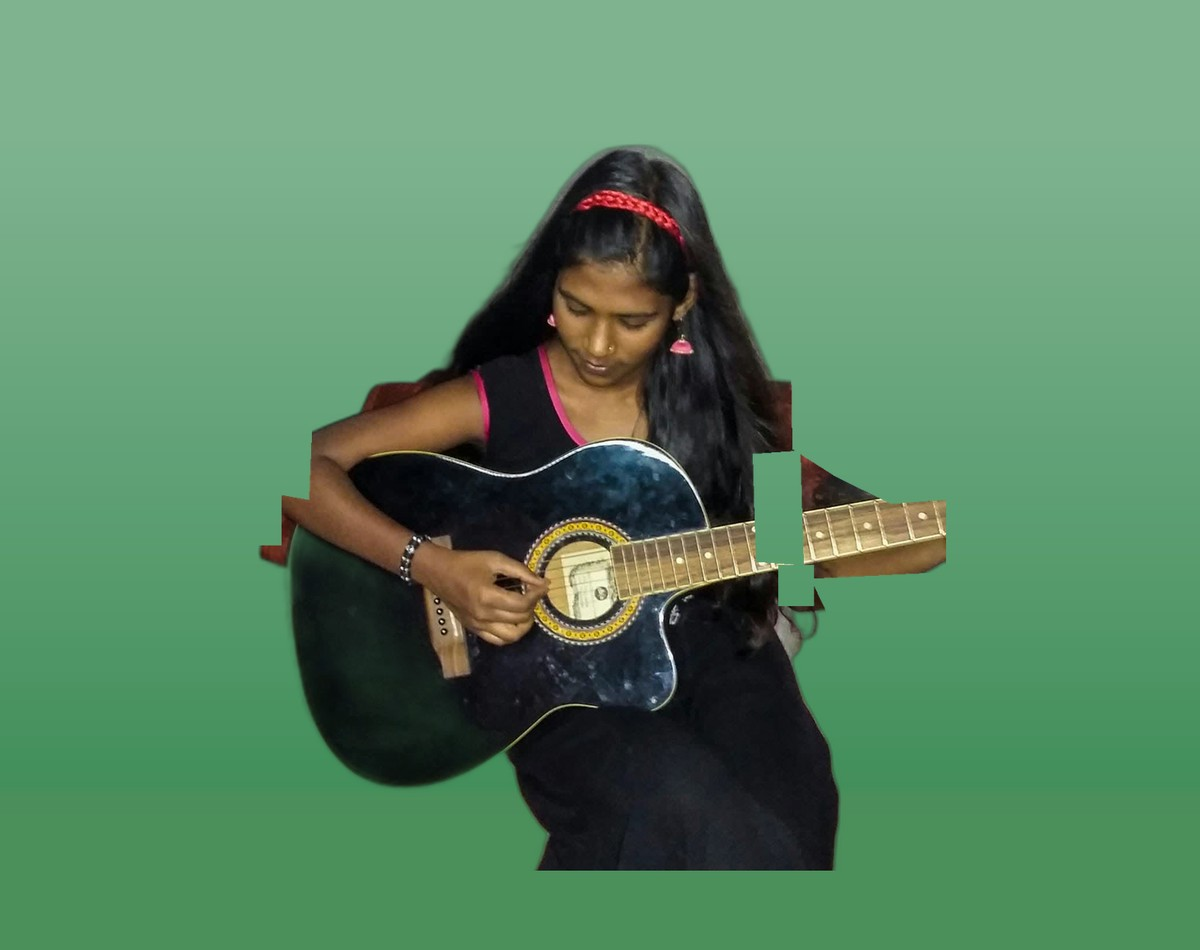
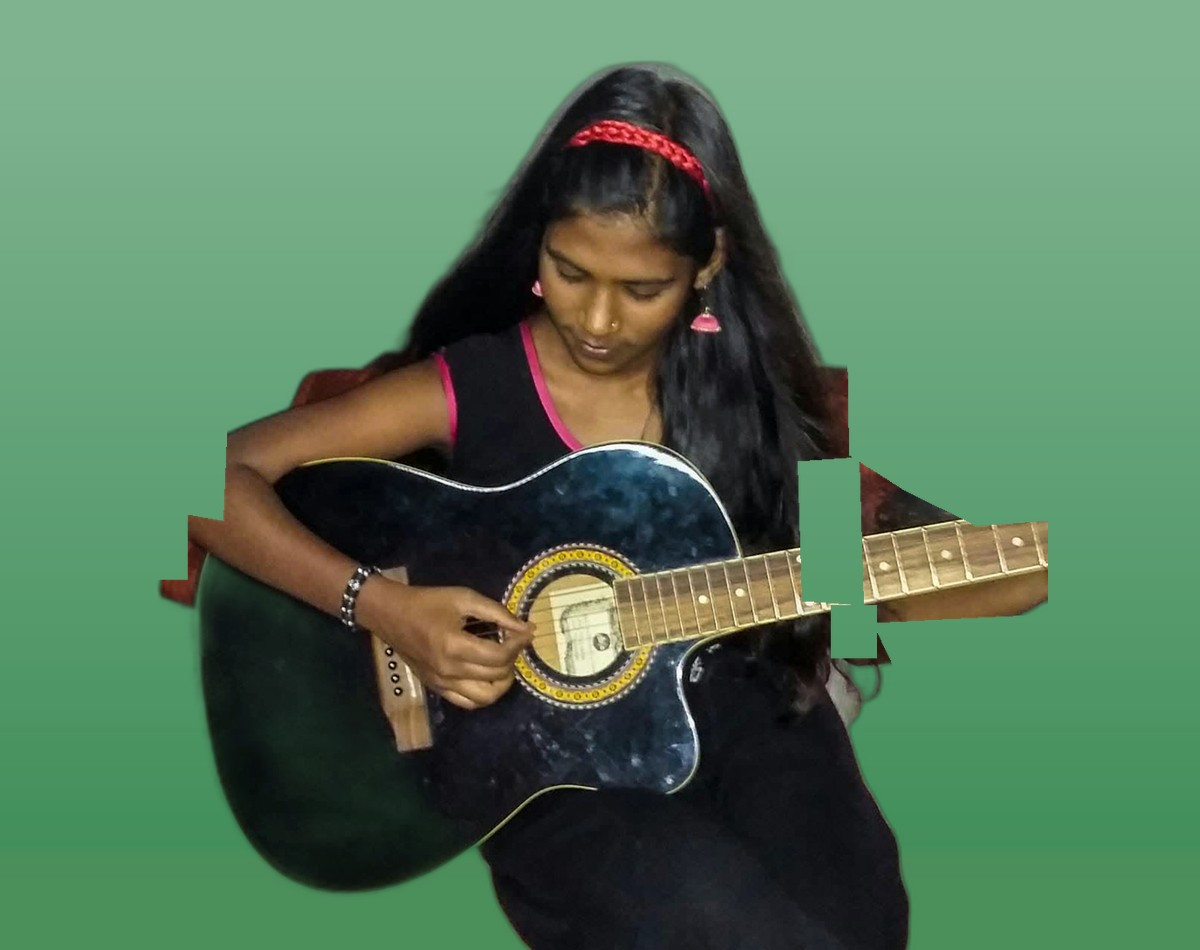
**Homepage torso zoom + full Our Work restructure — complete** - The new scholar set on the homepage is now zoomed to torso level like the other sets — bigger subjects, tighter crop, same coloured chevron panels, guitar and graduation certificate still fully in frame. - Our Work is reordered and ren
Emergent-Commit-Key: 017fbe71f9b0d49b76314eb5b89e1252a4862a0d8cf172c01eab7f174f947a69

Changed region(s): [[0.1233, 0.0611, 0.8942, 1.0]]

diff --git a/frontend/src/pages/Program.jsx b/frontend/src/pages/Program.jsx
@@ -4,21 +4,6 @@ import { ArrowUpRight, Facebook } from "lucide-react";
 import { Reveal } from "@/components/Reveal";
 import AlbumButtons from "@/components/AlbumButtons";
 
-const IMG = {
-  tuition: "https://images.unsplash.com/photo-1623303366639-0e330d7c3d9f?crop=entropy&cs=srgb&fm=jpg&ixid=M3w4NjAzMjd8MHwxfHNlYXJjaHw0fHxJbmRpYW4lMjBjaGlsZHJlbiUyMGVkdWNhdGlvbiUyMGNsYXNzcm9vbSUyMHN0dWR5JTIwc3BvcnRzJTIwZmllbGR0cmlwfGVufDB8fHx8MTc5MTMwOTc1OXww&ixlib=rb-4.1.0&q=85",
-  arts: "https://images.unsplash.com/photo-1592060036126-1b6d5139dea4?crop=entropy&cs=srgb&fm=jpg&ixid=M3w4NTYxODd8MHwxfHNlYXJjaHwyfHxpbmRpYW4lMjBjaGlsZHJlbiUyMGFydCUyMGNsYXNzfGVufDB8fHx8MTc5MTMxMDMyNHww&ixlib=rb-4.1.0&q=85",
-  sports: "https://images.unsplash.com/photo-1569173675610-42c361a86e37?crop=entropy&cs=srgb&fm=jpg&ixid=M3w4NjAzMjd8MHwxfHNlYXJjaHwzfHxJbmRpYW4lMjBjaGlsZHJlbiUyMGVkdWNhdGlvbiUyMGNsYXNzcm9vbSUyMHN0dWR5JTIwc3BvcnRzJTIwZmllbGR0cmlwfGVufDB8fHx8MTc5MTMwOTc1OXww&ixlib=rb-4.1.0&q=85",
-  fieldtrip: "https://images.unsplash.com/photo-1524069290683-0457abfe42c3?crop=entropy&cs=srgb&fm=jpg&ixid=M3w4NjAzMjd8MHwxfHNlYXJjaHwxfHxJbmRpYW4lMjBjaGlsZHJlbiUyMGVkdWNhdGlvbiUyMGNsYXNzcm9vbSUyMHN0dWR5JTIwc3BvcnRzJTIwZmllbGR0cmlwfGVufDB8fHx8MTc5MTMwOTc1OXww&ixlib=rb-4.1.0&q=85",
-  healthFamily: "https://images.unsplash.com/photo-1680778467822-6097c2bd8232?crop=entropy&cs=srgb&fm=jpg&ixid=M3w3NTY2OTF8MHwxfHNlYXJjaHwyfHxJbmRpYW4lMjBjb21tdW5pdHklMjBoZWFsdGglMjBjaGVja3VwJTIwd29ya3Nob3AlMjBkaXN0cmlidXRpb24lMjBzdXBwbGllc3xlbnwwfHx8fDE3OTEzMDk3NTl8MA&ixlib=rb-4.1.0&q=85",
-  healthCheckup: "https://images.unsplash.com/photo-1680759291617-2923935d803a?crop=entropy&cs=srgb&fm=jpg&ixid=M3w3NTY2OTF8MHwxfHNlYXJjaHw0fHxJbmRpYW4lMjBjb21tdW5pdHklMjBoZWFsdGglMjBjaGVja3VwJTIwd29ya3Nob3AlMjBkaXN0cmlidXRpb24lMjBzdXBwbGllc3xlbnwwfHx8fDE3OTEzMDk3NTl8MA&ixlib=rb-4.1.0&q=85",
-  healthHygiene: "https://images.unsplash.com/photo-1572847748080-bac263fae977?crop=entropy&cs=srgb&fm=jpg&ixid=M3w3NTY2NzB8MHwxfHNlYXJjaHw0fHxJbmRpYW4lMjBzY2hvb2wlMjBjaGlsZHJlbiUyMGxlYXJuaW5nJTIwY2xhc3Nyb29tJTIwbm90ZWJvb2t8ZW58MHx8fHwxNzg4OTM1NzIzfDA&ixlib=rb-4.1.0&q=85",
-  healthWorkshop: "https://images.unsplash.com/photo-1719159381916-062fa9f435a6?crop=entropy&cs=srgb&fm=jpg&q=85",
-  careerCv: "https://images.unsplash.com/photo-1686771416317-b964cc4e0002?crop=entropy&cs=srgb&fm=jpg&ixid=M3w4NjA3NzF8MHwxfHNlYXJjaHwzfHxJbmRpYW4lMjB5b3VuZyUyMHByb2Zlc3Npb25hbCUyMG9mZmljZSUyMGRlc2slMjBjYXJlZXIlMjB3b3Jrc2hvcCUyMGludGVydmlld3xlbnwwfHx8fDE3OTEzMDk3NTl8MA&ixlib=rb-4.1.0&q=85",
-  careerInternship: "https://images.unsplash.com/photo-1573497620053-ea5300f94f21?crop=entropy&cs=srgb&fm=jpg&ixid=M3w4NjA3NzF8MHwxfHNlYXJjaHxfHxJbmRpYW4lMjB5b3VuZyUyMHByb2Zlc3Npb25hbCUyMG9mZmljZSUyMGRlc2slMjBjYXJlZXIlMjB3b3Jrc2hvcCUyMGludGVydmlld3xlbnwwfHx8fDE3OTEzMDk3NTl8MA&ixlib=rb-4.1.0&q=85",
-  careerWorkshop: "https://images.unsplash.com/photo-1775113586139-b583cc93517f?crop=entropy&cs=srgb&fm=jpg&q=85",
-  parentsWorkshop: "https://images.unsplash.com/photo-1680759291088-d3e935226178?crop=entropy&cs=srgb&fm=jpg&q=85",
-};
-
 const PILLARS = [
   {
     id: "education",
@@ -36,14 +21,10 @@ const PILLARS = [
         ],
       },
       {
-        title: "QUALITY SCHOOLS",
-        text: "Fully sponsored enrollment in private English-medium schools these families could never access, with logistics managed so nothing gets in the way.",
-        img: "/assets/edu-2.jpg",
-        alt: "AimGame scholars in their school uniforms with the RC team",
-        albums: [
-          { label: "KOLKATA", url: "https://www.facebook.com/media/set/?set=a.2511811812163179&type=3" },
-          { label: "PUNE", url: "https://www.facebook.com/media/set/?set=a.1468170039860700&type=3" },
-        ],
+        title: "MILESTONES",
+        text: "Five milestones mark every scholar's journey, from Bronze to Diamond. See each achievement celebrated, step by step.",
+        img: "/assets/work-milestones.jpg",
+        alt: "A graduation milestone celebration poster for an AimGame scholar",
       },
       {
         title: "TUITIONS",
@@ -64,7 +45,7 @@ const PILLARS = [
         ],
       },
       {
-        title: "PHYSICAL EDUCATION",
+        title: "FITNESS & SPORTS",
         text: "Sports and fitness that build healthy bodies and teamwork.",
         img: "/assets/edu-5.jpg",
         alt: "A yoga and fitness session with scholars at a community center",
@@ -89,8 +70,8 @@ const PILLARS = [
   },
   {
     id: "healthcare",
-    index: "02",
-    title: "Healthcare",
+    index: "03",
+    title: "Health & Wellness",
     intro: "A child can't stay in school if their family can't stay healthy.",
     blocks: [
       {
@@ -129,7 +110,7 @@ const PILLARS = [
   },
   {
     id: "employment",
-    index: "03",
+    index: "05",
     title: "Employment",
     intro: "The finish line isn't graduation. It's the first day on the job.",
     blocks: [
@@ -170,10 +151,10 @@ const PILLARS = [
 
 const NAV_ITEMS = [
   { id: "education", label: "EDUCATION" },
-  { id: "healthcare", label: "HEALTHCARE" },
-  { id: "employment", label: "EMPLOYMENT" },
   { id: "schools", label: "SCHOOLS & COLLEGES" },
-  { id: "parents", label: "PARENTS AS PARTNERS" },
+  { id: "healthcare", label: "HEALTH & WELLNESS" },
+  { id: "parents", label: "PARENT PARTNERSHIP" },
+  { id: "employment", label: "EMPLOYMENT" },
 ];
 
 const PillarNav = ({ active, progress, onJump }) => (
@@ -307,6 +288,29 @@ const PARTNER_LOGOS = [
   { src: "/assets/partner-logo-6.png", name: "I.P. Memorial School, Liluah Howrah" },
 ];
 
+const SCHOOLS_BLOCKS = [
+  {
+    title: "QUALITY SCHOOLS",
+    text: "Fully sponsored enrollment in private English-medium schools these families could never access, with logistics managed so nothing gets in the way.",
+    img: "/assets/edu-2.jpg",
+    alt: "AimGame scholars in their school uniforms with the RC team",
+    albums: [
+      { label: "KOLKATA", url: "https://www.facebook.com/media/set/?set=a.2511811812163179&type=3" },
+      { label: "PUNE", url: "https://www.facebook.com/media/set/?set=a.1468170039860700&type=3" },
+    ],
+  },
+  {
+    title: "COLLEGES & UNIVERSITIES",
+    text: "Fully sponsored admission to accredited colleges and universities across India, in courses that fit each scholar's strengths, with fees and logistics managed so nothing gets in the way.",
+    img: "/assets/work-colleges.jpg",
+    alt: "AimGame scholars and team at the Symbiosis Institute of Management Studies campus",
+    albums: [
+      { label: "KOLKATA", url: "https://www.facebook.com/media/set/?set=a.2511811812163179&type=3" },
+      { label: "PUNE", url: "https://www.facebook.com/media/set/?set=a.2511811812163179&type=3" },
+    ],
+  },
+];
+
 const SchoolsPillar = () => (
   <section
     id="schools"
@@ -316,9 +320,9 @@ const SchoolsPillar = () => (
     <div className="max-w-7xl mx-auto px-4 sm:px-8 lg:px-16">
       <Reveal>
         <div className="flex items-baseline gap-4">
-          <span className="font-mono text-sm font-bold text-flame">04</span>
+          <span className="font-mono text-sm font-bold text-flame">02</span>
           <h2 className="font-display font-extrabold tracking-tight text-3xl sm:text-4xl lg:text-5xl text-leaf uppercase">
-            Schools and Colleges
+            Schools &amp; Colleges
           </h2>
         </div>
       </Reveal>
@@ -329,6 +333,52 @@ const SchoolsPillar = () => (
           students' backgrounds and challenges. Together, year after year, we help every scholar succeed.
         </p>
       </Reveal>
+
+      <div className="mt-10 grid sm:grid-cols-2 gap-6">
+        {SCHOOLS_BLOCKS.map((b, i) => (
+          <Reveal key={b.title} delay={0.04 + i * 0.05} className="h-full">
+            <article
+              data-testid={`pillar-card-schools-${i}`}
+              className="group h-full rounded-3xl bg-white border border-ink/10 overflow-hidden transition-all duration-500 hover:-translate-y-1 hover:shadow-[0_30px_60px_-30px_rgba(15,23,42,0.3)] flex flex-col"
+            >
+              <div className="aspect-[4/3] overflow-hidden shrink-0">
+                <img
+                  src={b.img}
+                  alt={b.alt}
+                  loading="lazy"
+                  className="h-full w-full object-cover transition-transform duration-700 group-hover:scale-[1.04]"
+                />
+              </div>
+              <div className="p-6 flex flex-col flex-1">
+                <h3 className="font-display font-extrabold tracking-tight text-lg">{b.title}</h3>
+                <p className="mt-2 text-sm text-ink-muted leading-relaxed">{b.text}</p>
+                <div className="mt-auto pt-4">
+                  <div className="flex flex-wrap gap-2">
+                    {b.albums.map((a) => (
+                      <a
+                        key={a.label}
+                        href={a.url}
+                        target="_blank"
+                        rel="noopener noreferrer"
+                        data-testid={`block-album-schools-${i}-${a.label.toLowerCase()}`}
+                        onClick={() => {
+                          window.dataLayer = window.dataLayer || [];
+                          window.dataLayer.push({ event: "album_click", page: "our-work", block: `schools-${i}`, city: a.label });
+                        }}
+                        className="inline-flex min-h-[36px] items-center gap-1.5 rounded-full bg-leaf-soft border border-leaf/25 px-4 font-mono text-[10px] tracking-[0.15em] font-bold text-leaf transition-colors duration-300 hover:bg-leaf hover:text-white"
+                      >
+                        <Facebook className="h-3 w-3" />
+                        {a.label}
+                      </a>
+                    ))}
+                  </div>
+                </div>
+              </div>
+            </article>
+          </Reveal>
+        ))}
+      </div>
+
       <Reveal delay={0.1}>
         <div className="mt-10 grid grid-cols-2 sm:grid-cols-3 gap-4">
           {PARTNER_LOGOS.map((l, i) => (
@@ -364,6 +414,10 @@ const SchoolsPillar = () => (
           ))}
         </div>
       </Reveal>
+
+      <Reveal delay={0.12}>
+        <AlbumButtons page="our-work" block="schools" align="start" />
+      </Reveal>
     </div>
   </section>
 );
@@ -379,19 +433,19 @@ const PARENTS_BLOCKS = [
     ],
   },
   {
-    title: "HOME VISITS",
-    text: "Our team visits families at home, so support and guidance carry on well beyond the classroom.",
-    img: IMG.parentsWorkshop,
-    alt: "A mentor in conversation with parents during a home visit",
+    title: "COMMUNITY OUTREACH",
+    text: "Our staff, tutors and mentors visit families at home, right in the community, to check in, share each scholar's progress and talk through any challenges together.",
+    img: "/assets/work-outreach.jpg",
+    alt: "An RC team member on a home visit with a scholar's family",
     albums: [
       { label: "MUMBAI", url: "https://www.facebook.com/media/set/?set=a.1808015935876107&type=3" },
     ],
   },
   {
-    title: "WORKSHOPS & HEALTHCARE",
-    text: "Parents are welcome at our centers for workshops and updates on their child's grades — and healthcare support extends to them too.",
-    img: IMG.healthFamily,
-    alt: "Families attending a community health workshop together",
+    title: "OPEN DOORS AT OUR CENTERS",
+    text: "Our community centers are open to parents too. They come for supplies, updates on how their child is doing in school and workshops, and they talk with our staff, so every visit keeps the family involved.",
+    img: "/assets/work-centers.jpg",
+    alt: "Parents gathered for a workshop at an RC community center",
     albums: [
       { label: "PUNE", url: "https://www.facebook.com/media/set/?set=a.495665887111125&type=3" },
     ],
@@ -407,16 +461,11 @@ const ParentsPillar = () => (
     <div className="max-w-7xl mx-auto px-4 sm:px-8 lg:px-16">
       <Reveal>
         <div className="flex items-baseline gap-4">
-          <span className="font-mono text-sm font-bold text-flame">05</span>
+          <span className="font-mono text-sm font-bold text-flame">04</span>
           <h2 className="font-display font-extrabold tracking-tight text-3xl sm:text-4xl lg:text-5xl text-leaf uppercase">
-            Parents as Partners
+            Parent Partnership
           </h2>
         </div>
-      </Reveal>
-      <Reveal delay={0.06}>
-        <p className="mt-4 font-display font-bold text-2xl sm:text-3xl text-flame tracking-tight">
-          No child makes this journey alone.
-        </p>
       </Reveal>
       <Reveal delay={0.1}>
         <p data-testid="pillar-intro-parents" className="mt-4 text-leaf font-semibold text-lg sm:text-xl leading-relaxed">
@@ -471,6 +520,10 @@ const ParentsPillar = () => (
           </Reveal>
         ))}
       </div>
+
+      <Reveal delay={0.12}>
+        <AlbumButtons page="our-work" block="parents" align="start" />
+      </Reveal>
     </div>
   </section>
 );
@@ -543,7 +596,7 @@ const Program = () => {
             <p data-testid="work-description" className="mt-8 text-leaf font-semibold text-lg sm:text-xl leading-relaxed">
               Education alone doesn't end poverty. Our scholars also need healthy families, a real path
               to a career, strong institutions, and parents beside them. So the work rests on five pillars:
-              education, healthcare, employment, schools &amp; colleges, and parents as partners.
+              education, schools &amp; colleges, health &amp; wellness, parent partnership, and employment.
               Explore each one below.
             </p>
           </Reveal>
@@ -552,14 +605,12 @@ const Program = () => {
 
       <div>
         <PillarNav active={active} progress={progress} onJump={jump} />
-        {PILLARS.map((p) => (
-          <PillarSection key={p.id} pillar={p} />
-        ))}
+        <PillarSection pillar={PILLARS[0]} />
+        <SchoolsPillar />
+        <PillarSection pillar={PILLARS[1]} />
+        <ParentsPillar />
+        <PillarSection pillar={PILLARS[2]} />
       </div>
-
-      <SchoolsPillar />
-
-      <ParentsPillar />
     </main>
   );
 };

diff --git a/frontend/src/data/albums.js b/frontend/src/data/albums.js
@@ -7,16 +7,14 @@ const CHECKED = "2026-07-12";
 
 export const ALBUM_LINKS = [
   // THE WORK — pillar sections
-  { page: "our-work", block: "education", label: "See the albums over the years", city: null, url: FB_ALBUMS_TAB, verified: true, checked: CHECKED },
-  { page: "our-work", block: "healthcare", label: "See the full Healthcare album", city: null, url: FB_ALBUMS_TAB, verified: true, checked: CHECKED },
-  { page: "our-work", block: "employment", label: "See the full Employment album", city: null, url: FB_ALBUMS_TAB, verified: true, checked: CHECKED },
+  { page: "our-work", block: "education", label: "See albums over the years", city: null, url: FB_ALBUMS_TAB, verified: true, checked: CHECKED },
+  { page: "our-work", block: "healthcare", label: "See albums over the years", city: null, url: FB_ALBUMS_TAB, verified: true, checked: CHECKED },
+  { page: "our-work", block: "employment", label: "See albums over the years", city: null, url: FB_ALBUMS_TAB, verified: true, checked: CHECKED },
+  { page: "our-work", block: "schools", label: "See albums over the years", city: null, url: FB_ALBUMS_TAB, verified: true, checked: CHECKED },
+  { page: "our-work", block: "parents", label: "See albums over the years", city: null, url: FB_ALBUMS_TAB, verified: true, checked: CHECKED },
   // THE WORK — Education Partners band (city albums share the albums tab for now)
   { page: "our-work", block: "education-partners", label: "See more photos", city: "Kolkata", url: FB_ALBUMS_TAB, verified: true, checked: CHECKED },
   { page: "our-work", block: "education-partners", label: "See more photos", city: "Pune", url: FB_ALBUMS_TAB, verified: true, checked: CHECKED },
-  // THE WORK — Parents as Partners band
-  { page: "our-work", block: "parents", label: "KOLKATA", city: "Kolkata", url: "https://www.facebook.com/media/set/?set=a.116071365070581&type=3", verified: true, checked: CHECKED },
-  { page: "our-work", block: "parents", label: "PUNE", city: "Pune", url: "https://www.facebook.com/media/set/?set=a.1468170039860700&type=3", verified: true, checked: CHECKED },
-  { page: "our-work", block: "parents", label: "MUMBAI", city: "Mumbai", url: "https://www.facebook.com/media/set/?set=a.1808015935876107&type=3", verified: true, checked: CHECKED },
   // OUR STORY — Our Community Centers (per-center)
   { page: "our-story", block: "kolkata", label: "See more photos", city: "Kolkata", url: "https://www.facebook.com/media/set/?set=a.621972941147085&type=3", verified: true, checked: CHECKED },
   { page: "our-story", block: "pune", label: "See more photos", city: "Pune", url: "https://www.facebook.com/media/set/?set=a.2369685556375806&type=3", verified: true, checked: CHECKED },

diff --git a/memory/PRD.md b/memory/PRD.md
@@ -154,3 +154,4 @@ Brief (from PDF): A rebooted website for Responsible Charity (RC) Society, a reg
 - CSR + forms batch (Oct 22, rev 4): (1) CSR Partners page now shows the 10 REAL corporate logos sliced from the user's uploaded composite ("Screenshot 2026-10-22 at 6.22.39 PM.png", original in /app/.image-sources/logos.png) as csr-logo-1..10.jpg in 2 rows of 5 — Paharpur Foundation, Rojo Integrations, KIWC, NRI, Cogfree, ISG, RDB Group, SBGS, Wesman, Ivy League House; grid-line remnants removed via line-detection + full-height line eraser. (2) Below the logos: the 8 photos sliced from the second uploaded composite (photos8.png) as csr-photo-1..8.jpg in 2 rows of 4 with rounded-lg corners (matching homepage 12-image grid rounding). (3) CSR paragraphs stretched full container width (max-w-4xl removed) + force-justified, right edge aligned with the DONATE button. (4) index.css justify rule extended to p, li, blockquote, td site-wide. (5) ALL forms (Contact, CSR, Donate payment, Partner qualify, Giving Desk) now have a "Re-enter email" field directly under Email with match validation (toast "Email addresses do not match."), and the Phone field is shortened to half width. Verified in browser: mismatch toast fires on CSR + Donate forms, all 18 CSR images load
 - Batch (Oct 22, rev 5): (1) Internships row 2 now uses the 4 new uploaded tutoring photos in order (internship-5..8.jpg; originals p5/p6/p7/p8 in /app/.image-sources/) — no stock photos remain on the page. (2) Donate page: green CURRENT CSR PARTNERS banner REMOVED and replaced with the CSR credibility block ("Your Side, Made Easy" 7-card grid) — CredibilityGrid now exported from CsrPartners.jsx and reused in Partner.jsx; the redundant 4-card TRUST_ITEMS grid was removed to avoid showing the same credentials twice; PARTNERS import dropped from Partner.jsx. (3) Full-width force-justified text on OUR WORK / RESULTS / OUR STORY / LET'S TALK: removed max-w-2xl/3xl/4xl/6xl caps from pillar intros, page descriptions, story text container and Contact content blocks so body text stretches to the container right edge (aligned with the DONATE button), justified via the global rule. (4) Chevron photo fit: all 15 scholar composites (scholar-b/c/d-1..5) re-rendered at 84% scale centered with edge-pixel-replication fill (preserves each image's own gradient seamlessly), so subjects no longer touch/cut at the chevron frame edges — applies to both the homepage ScholarStrip and the Results graduate rows since they share the same files. Originals backed up in /app/.image-sources/scholar-fit-backup/. Verified in browser: homepage rotation renders fitted panels, Vishnu row on Results fits, internships 8/8 local photos load, Donate page shows credibility block with no green banner
 - Batch (Oct 27, rev 6): (1) Homepage scholar rotation now has a FOURTH set (scholar-e-1..5 = Neha's journey: studying scene, guitar, victory pose, poster portrait, university graduate) — processed like the others: u2net cutouts composited bottom-anchored on per-panel gradients (sampled via cross-set per-row margin median to avoid subject contamination — b-1 is a scene so single-image sampling fails), then the 84% edge-replication fit; poster badge removed via crop+color-clear, guitar sofa + victory stick removed via polygon masks, e1 kept as full-bleed scene like b-1. Sources in /app/.image-sources (e1-e5 + sete-work/ + sete-refine*.py scripts). NOTE: /tmp gets wiped on pod restarts — all processing sources/scripts must live under /app/.image-sources. (2) All body text site-wide is now LEFT-aligned (justify rule removed from index.css). (3) Internships description bumped to text-xl sm:text-2xl to match Our Story. (4) CSR form heading now "Request a call from our team." (5) Contact page header is "LETS TALK"; the Volunteer topic is now labelled "Internships" (admin submissions label updated too). (6) Donate page yearly cost is now "₹3.25 Lakhs" (was ₹33,500; donut SVG center text reduced to fontSize 17 to fit). Verified in browser: 4-set rotation renders cleanly, LETS TALK header, left-aligned ragged-right paragraphs everywhere, 24px internships copy, ₹3.25 Lakhs, CSR heading
+- Batch (Oct 27, rev 7): (1) Homepage set-E photos re-composited as direct full-bleed 1200x950 composites (NO fit84 wrapper) with subjects scaled up top-anchored (e2 950px, e3 1235px, e4 998px, e5 1254px tall) so they crop at torso level like sets b/c/d; e1 scene is a plain cover crop. Cutouts reused from sete-work/*_cut3.png; gradients from cross-set margin median. Zoom-backup of the first-fit versions in /app/.image-sources/sete-zoom-backup/. (2) OUR WORK restructured, new order: 01 Education, 02 Schools & Colleges, 03 Health & Wellness, 04 Parent Partnership, 05 Employment (PILLARS render explicitly in this order, NAV_ITEMS updated, work-description pillar list updated). Education box2 = MILESTONES (Bronze→Diamond copy, new work-milestones.jpg poster, no album button); box5 PHYSICAL EDUCATION → FITNESS & SPORTS. Schools & Colleges gained 2 cards: QUALITY SCHOOLS (moved from Education, keeps edu-2.jpg + KOLKATA/PUNE pills) and COLLEGES & UNIVERSITIES (new work-colleges.jpg Symbiosis photo) ABOVE the 6-logo grid. Parent Partnership: orange subheader removed; box2 = COMMUNITY OUTREACH (work-outreach.jpg home visit, MUMBAI), box3 = OPEN DOORS AT OUR CENTERS (work-centers.jpg, PUNE). albums.js: all 5 pillar closing buttons now read "See albums over the years" (healthcare/employment custom labels replaced; schools + parents rows added; old 3-city parents rows removed). Unused IMG unsplash map deleted from Program.jsx. New image originals in /app/.image-sources (milestones/colleges/outreach/centers). Verified in browser: nav order, all titles, cards, images, 5 closing buttons, set-E torso zoom on homepage strip
